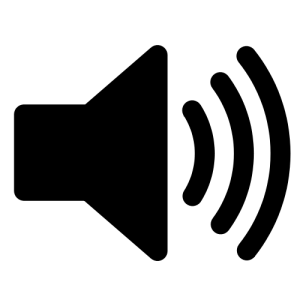
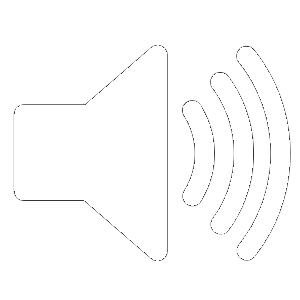
Style Tweaks

diff --git a/src/application/scene/css/Help.css b/src/application/scene/css/Help.css
@@ -2,6 +2,10 @@
     -fx-background-color: #1E2124;
 }
 
+.button:hover {
+	-fx-cursor: hand;
+}
+
 #title {
     -fx-text-fill: #FFFFFF;
     -fx-font-size: 80;
@@ -11,7 +15,7 @@
 #back {
 	-fx-background-color: #7289DA;
 	-fx-text-fill: #FFFFFF;
-    -fx-font-size: 50;
+    -fx-font-size: 30;
     -fx-font-family: Play;
 }
 

diff --git a/src/application/scene/css/Quiz.css b/src/application/scene/css/Quiz.css
@@ -6,6 +6,20 @@
 	-fx-font-size: 20;
 }
 
+.button:hover {
+	-fx-cursor: hand;
+}
+
+#sound {
+	-fx-background-color: transparent;
+}
+
+#macronButton {
+	-fx-background-color: transparent;
+	-fx-text-fill: #FFFFFF;
+	-fx-font-size: 30;
+}
+
 #score {
     -fx-text-fill: #7289DA;
     -fx-font-size: 50;

diff --git a/src/application/scene/css/Topic.css b/src/application/scene/css/Topic.css
@@ -6,10 +6,18 @@
 	-fx-font-size: 20;
 }
 
+.button:hover {
+	-fx-cursor: hand;
+}
+
 .list-cell {
     -fx-text-fill: #cacbce;
     -fx-alignment: center;
     -fx-font-size: 24;
+}
+
+.list-cell:hover {
+	-fx-cursor: hand;
 }
 
 .list-cell:even {

diff --git a/src/application/scene/css/Stats.css b/src/application/scene/css/Stats.css
@@ -2,6 +2,10 @@
     -fx-background-color: #1E2124;
 }
 
+.button:hover {
+	-fx-cursor: hand;
+}
+
 #back {
 	-fx-background-color: #7289DA;
 	-fx-text-fill: #FFFFFF;

diff --git a/src/application/scene/css/Finish.css b/src/application/scene/css/Finish.css
@@ -2,6 +2,10 @@
     -fx-background-color: #1E2124;
 }
 
+.button:hover {
+	-fx-cursor: hand;
+}
+
 #wellDone {
     -fx-text-fill: #9AF1A3;
     -fx-font-size: 60;

diff --git a/src/application/scene/css/Menu.css b/src/application/scene/css/Menu.css
@@ -2,6 +2,10 @@
     -fx-background-color: #1E2124;
 }
 
+.button:hover {
+	-fx-cursor: hand;
+}
+
 #title {
     -fx-text-fill: #FFFFFF;
     -fx-font-size: 80;
